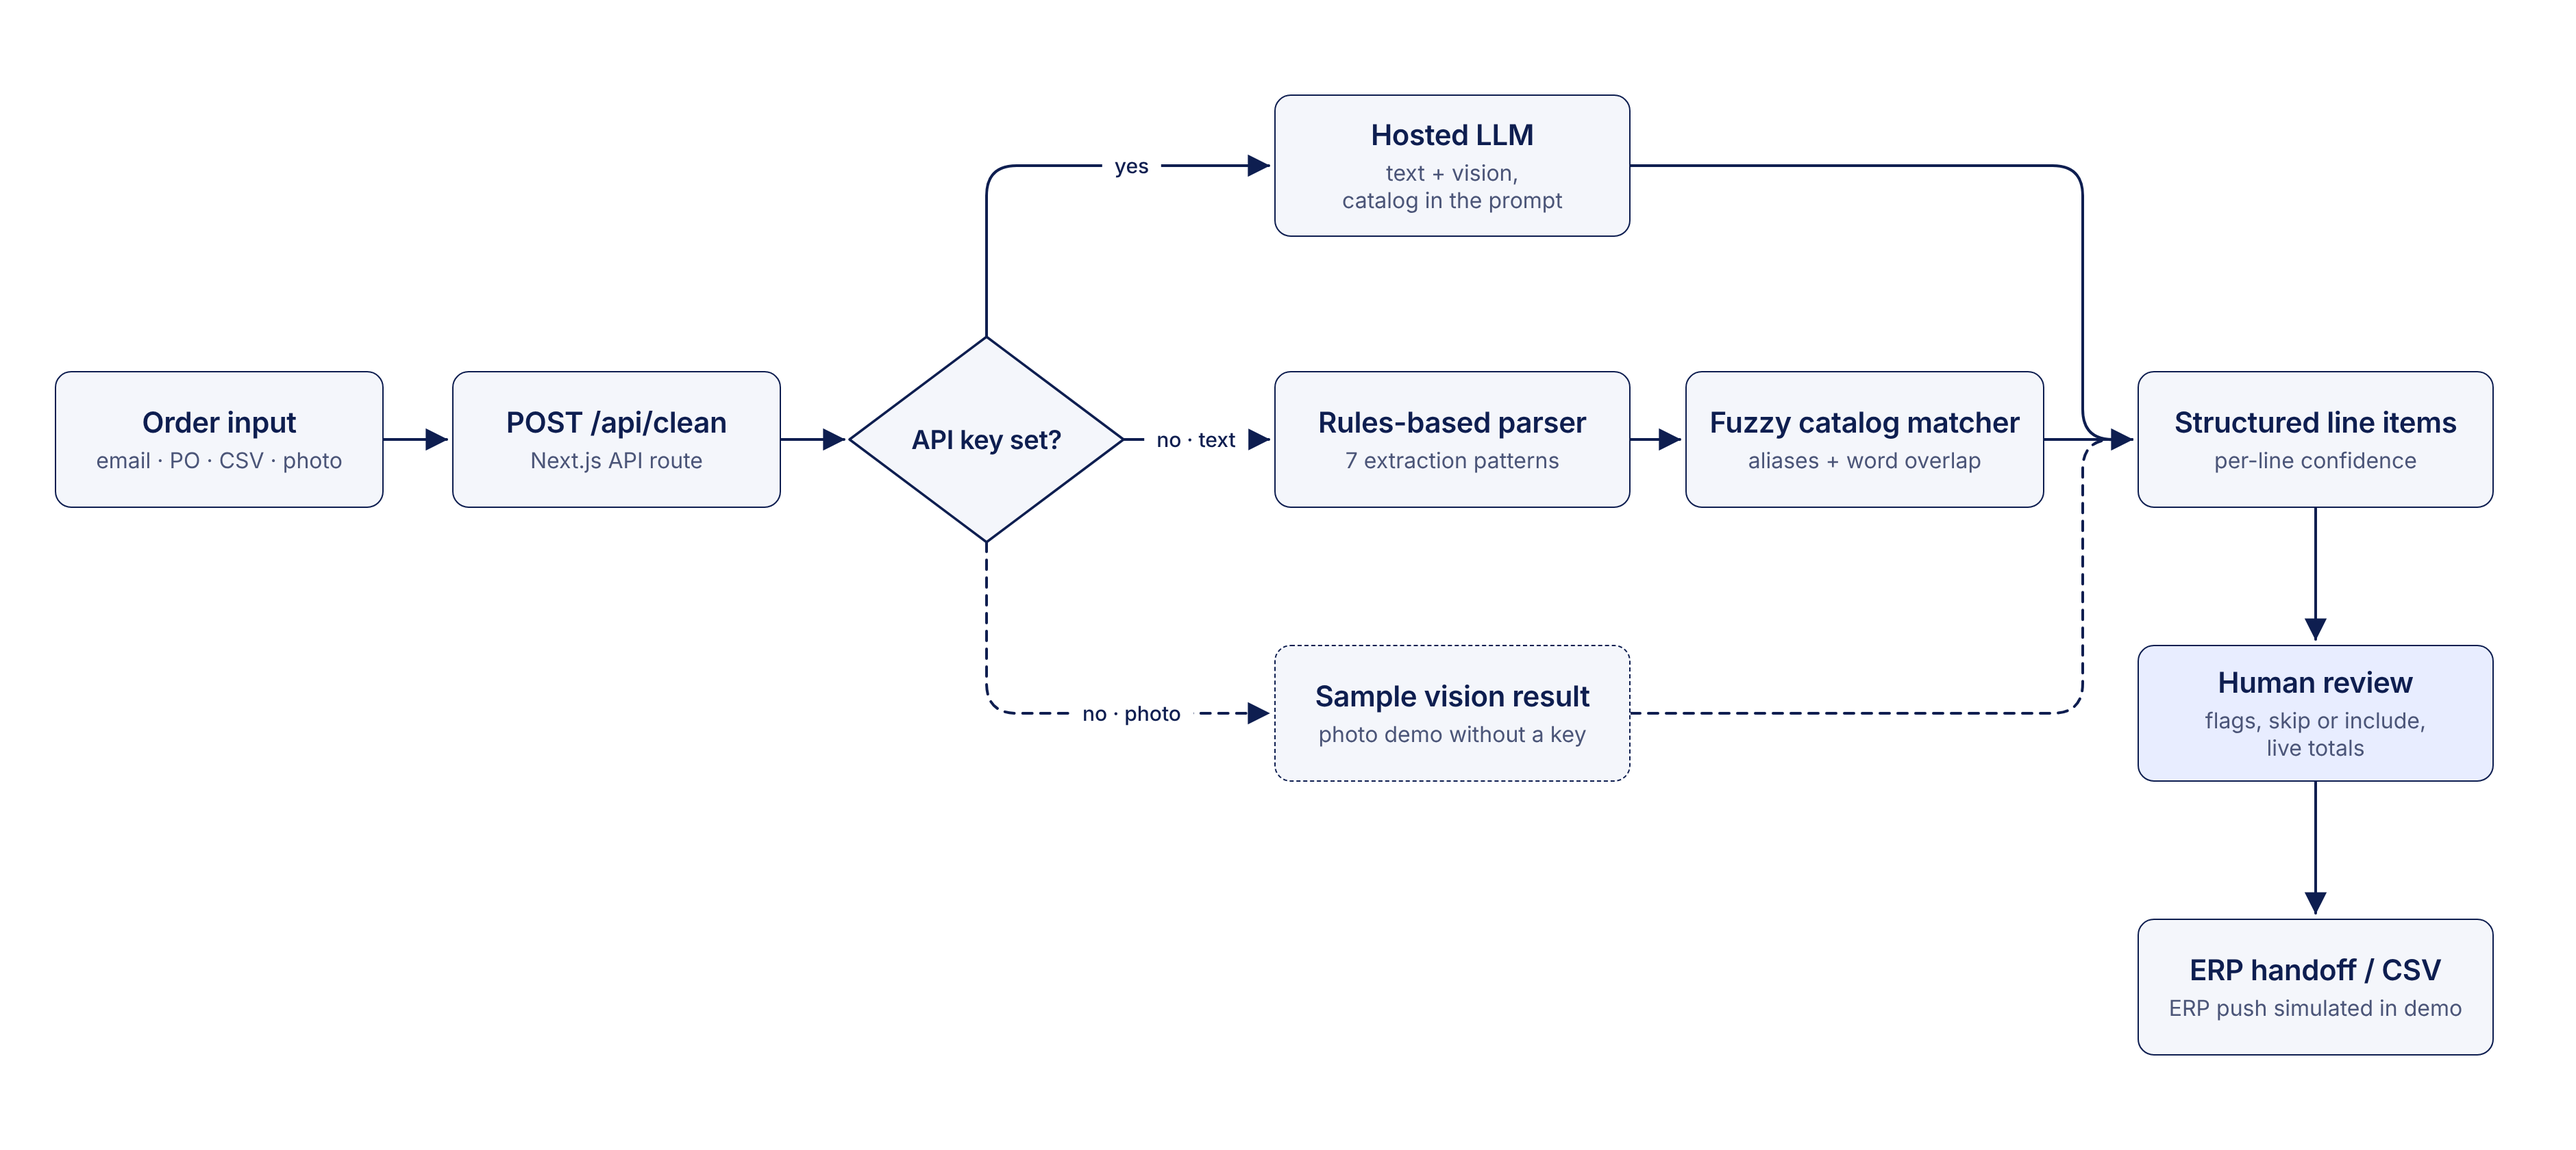
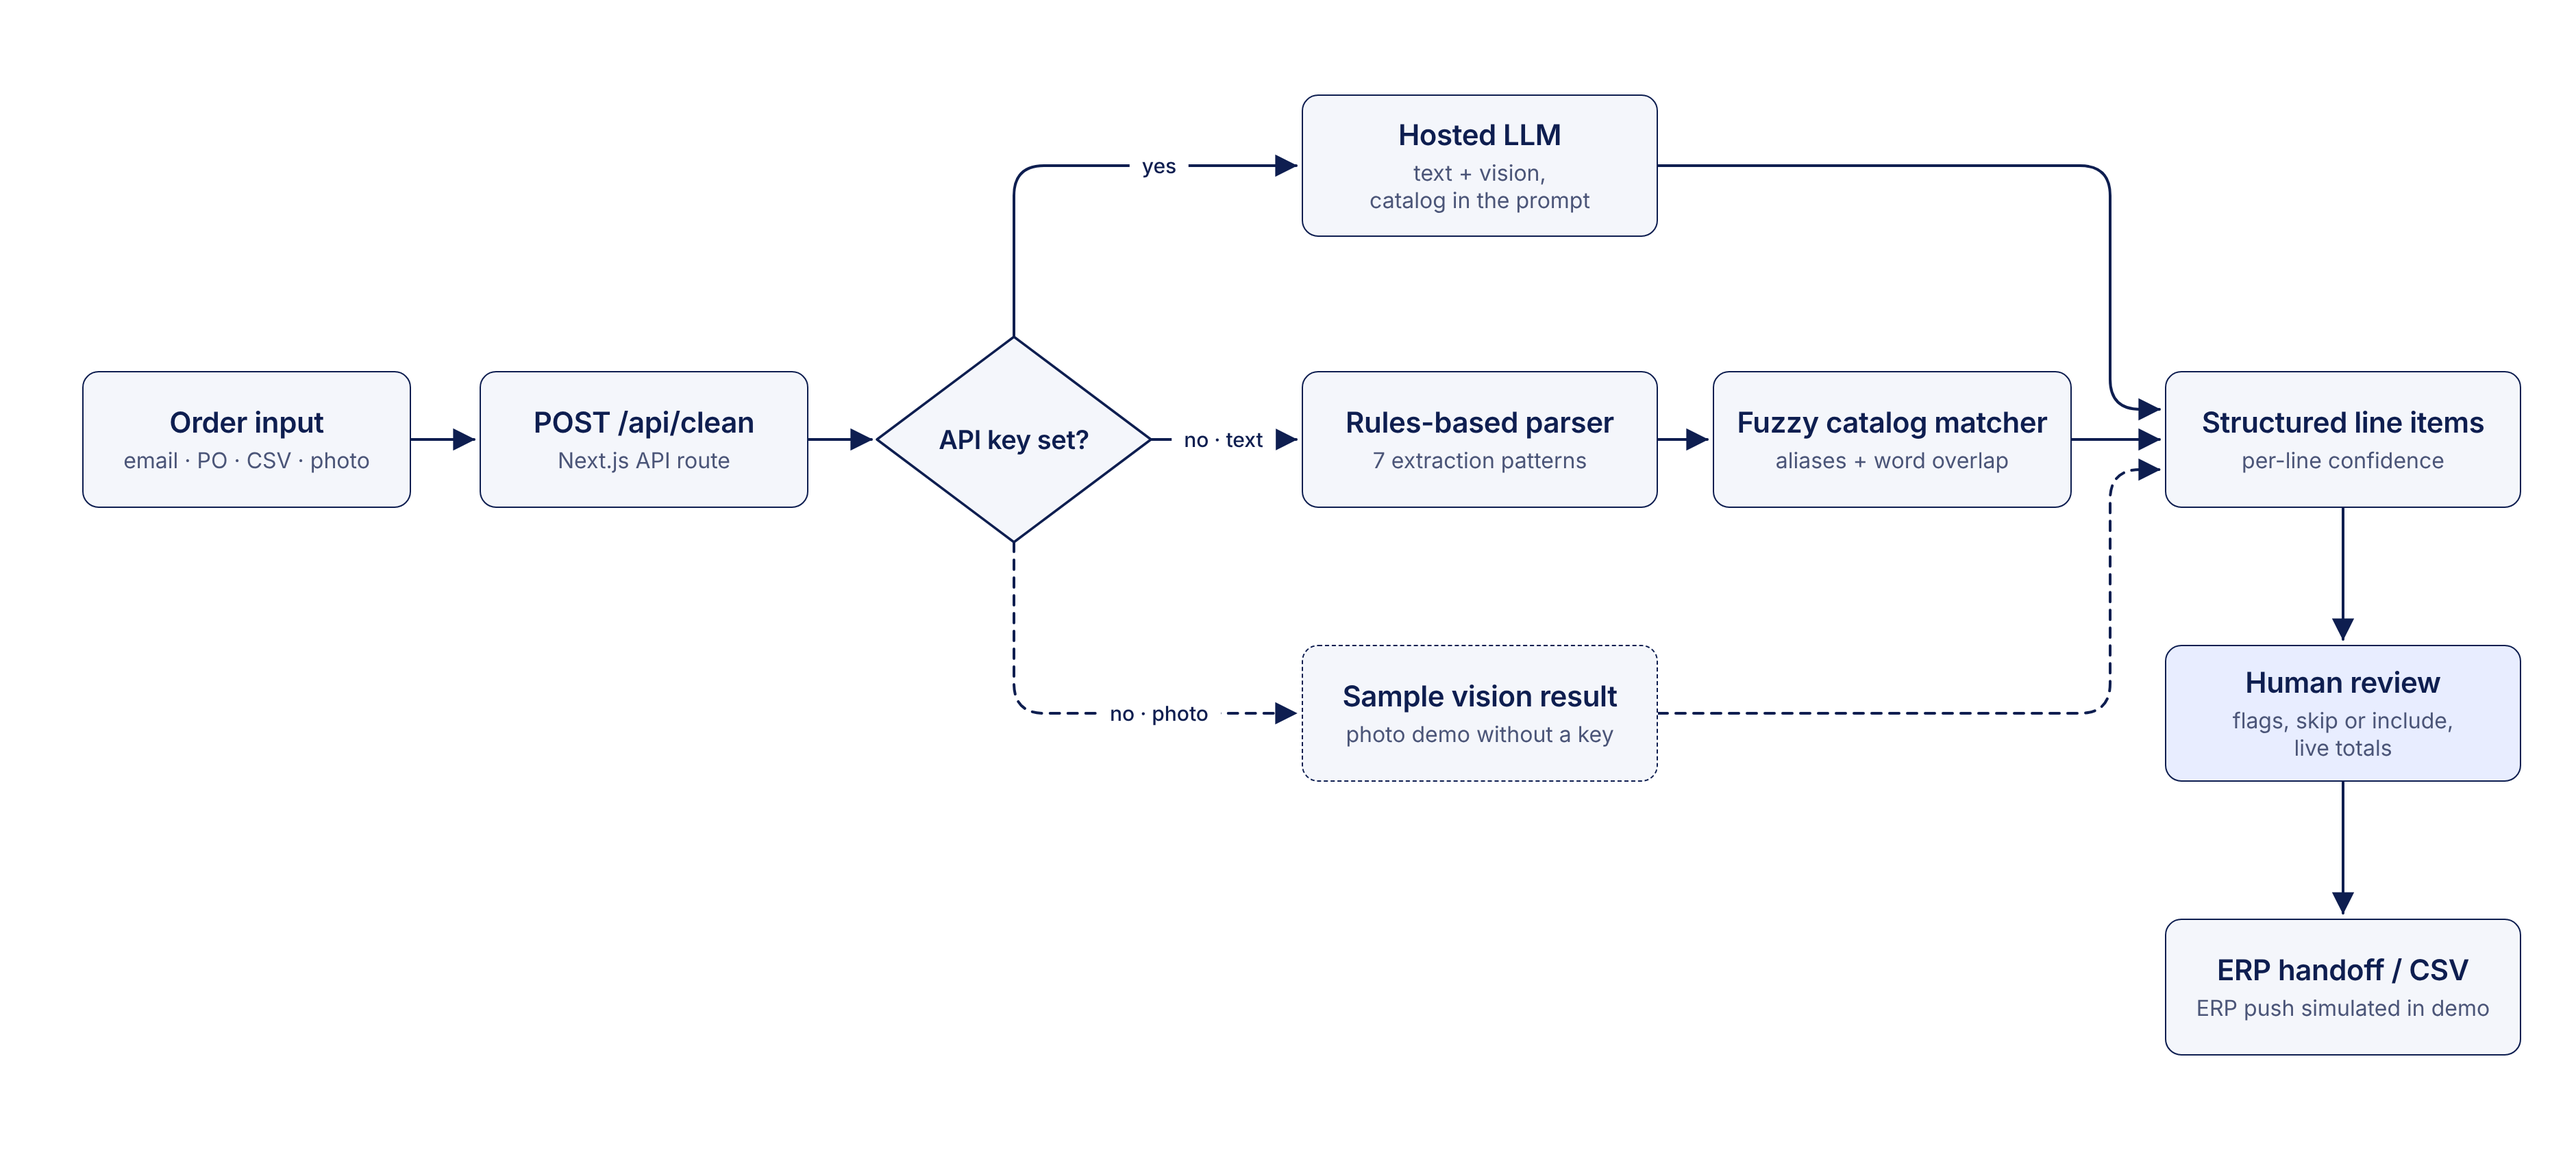
Polish README demo GIF and architecture diagram
- Demo GIF: cursor approaches rows from outside the table so only the
  hovered row's tooltip shows, rests on empty space instead of the text
  being explained, and the table scroll no longer overshoots
- Diagram: content centered, and the dashed demo-mode path keeps its own
  arrow into the structured line items
- GIF alt text no longer calls all 20 items catalog-matched

diff --git a/README.md b/README.md
@@ -8,7 +8,7 @@ The interactive demo I ran on customer calls as a co-founder of [Ventura](https:
 
 **Next.js 14 · TypeScript · Tailwind CSS · optional AI mode**
 
-<img src="docs/demo.gif" alt="Demo: a forwarded text-message order is parsed into 20 catalog-matched line items, one unknown item is flagged, a person skips it, and the rest is sent to the ERP" width="900" />
+<img src="docs/demo.gif" alt="Demo: a forwarded text-message order is parsed into 20 line items, one item that matches nothing in the catalog is flagged, a person skips it, and the rest is sent to the ERP" width="900" />
 
 *The Edge Case demo: forwarded iMessage chaos becomes 20 structured line items. The one it can't match gets flagged, a person skips it, and the rest goes to the ERP.*
 
